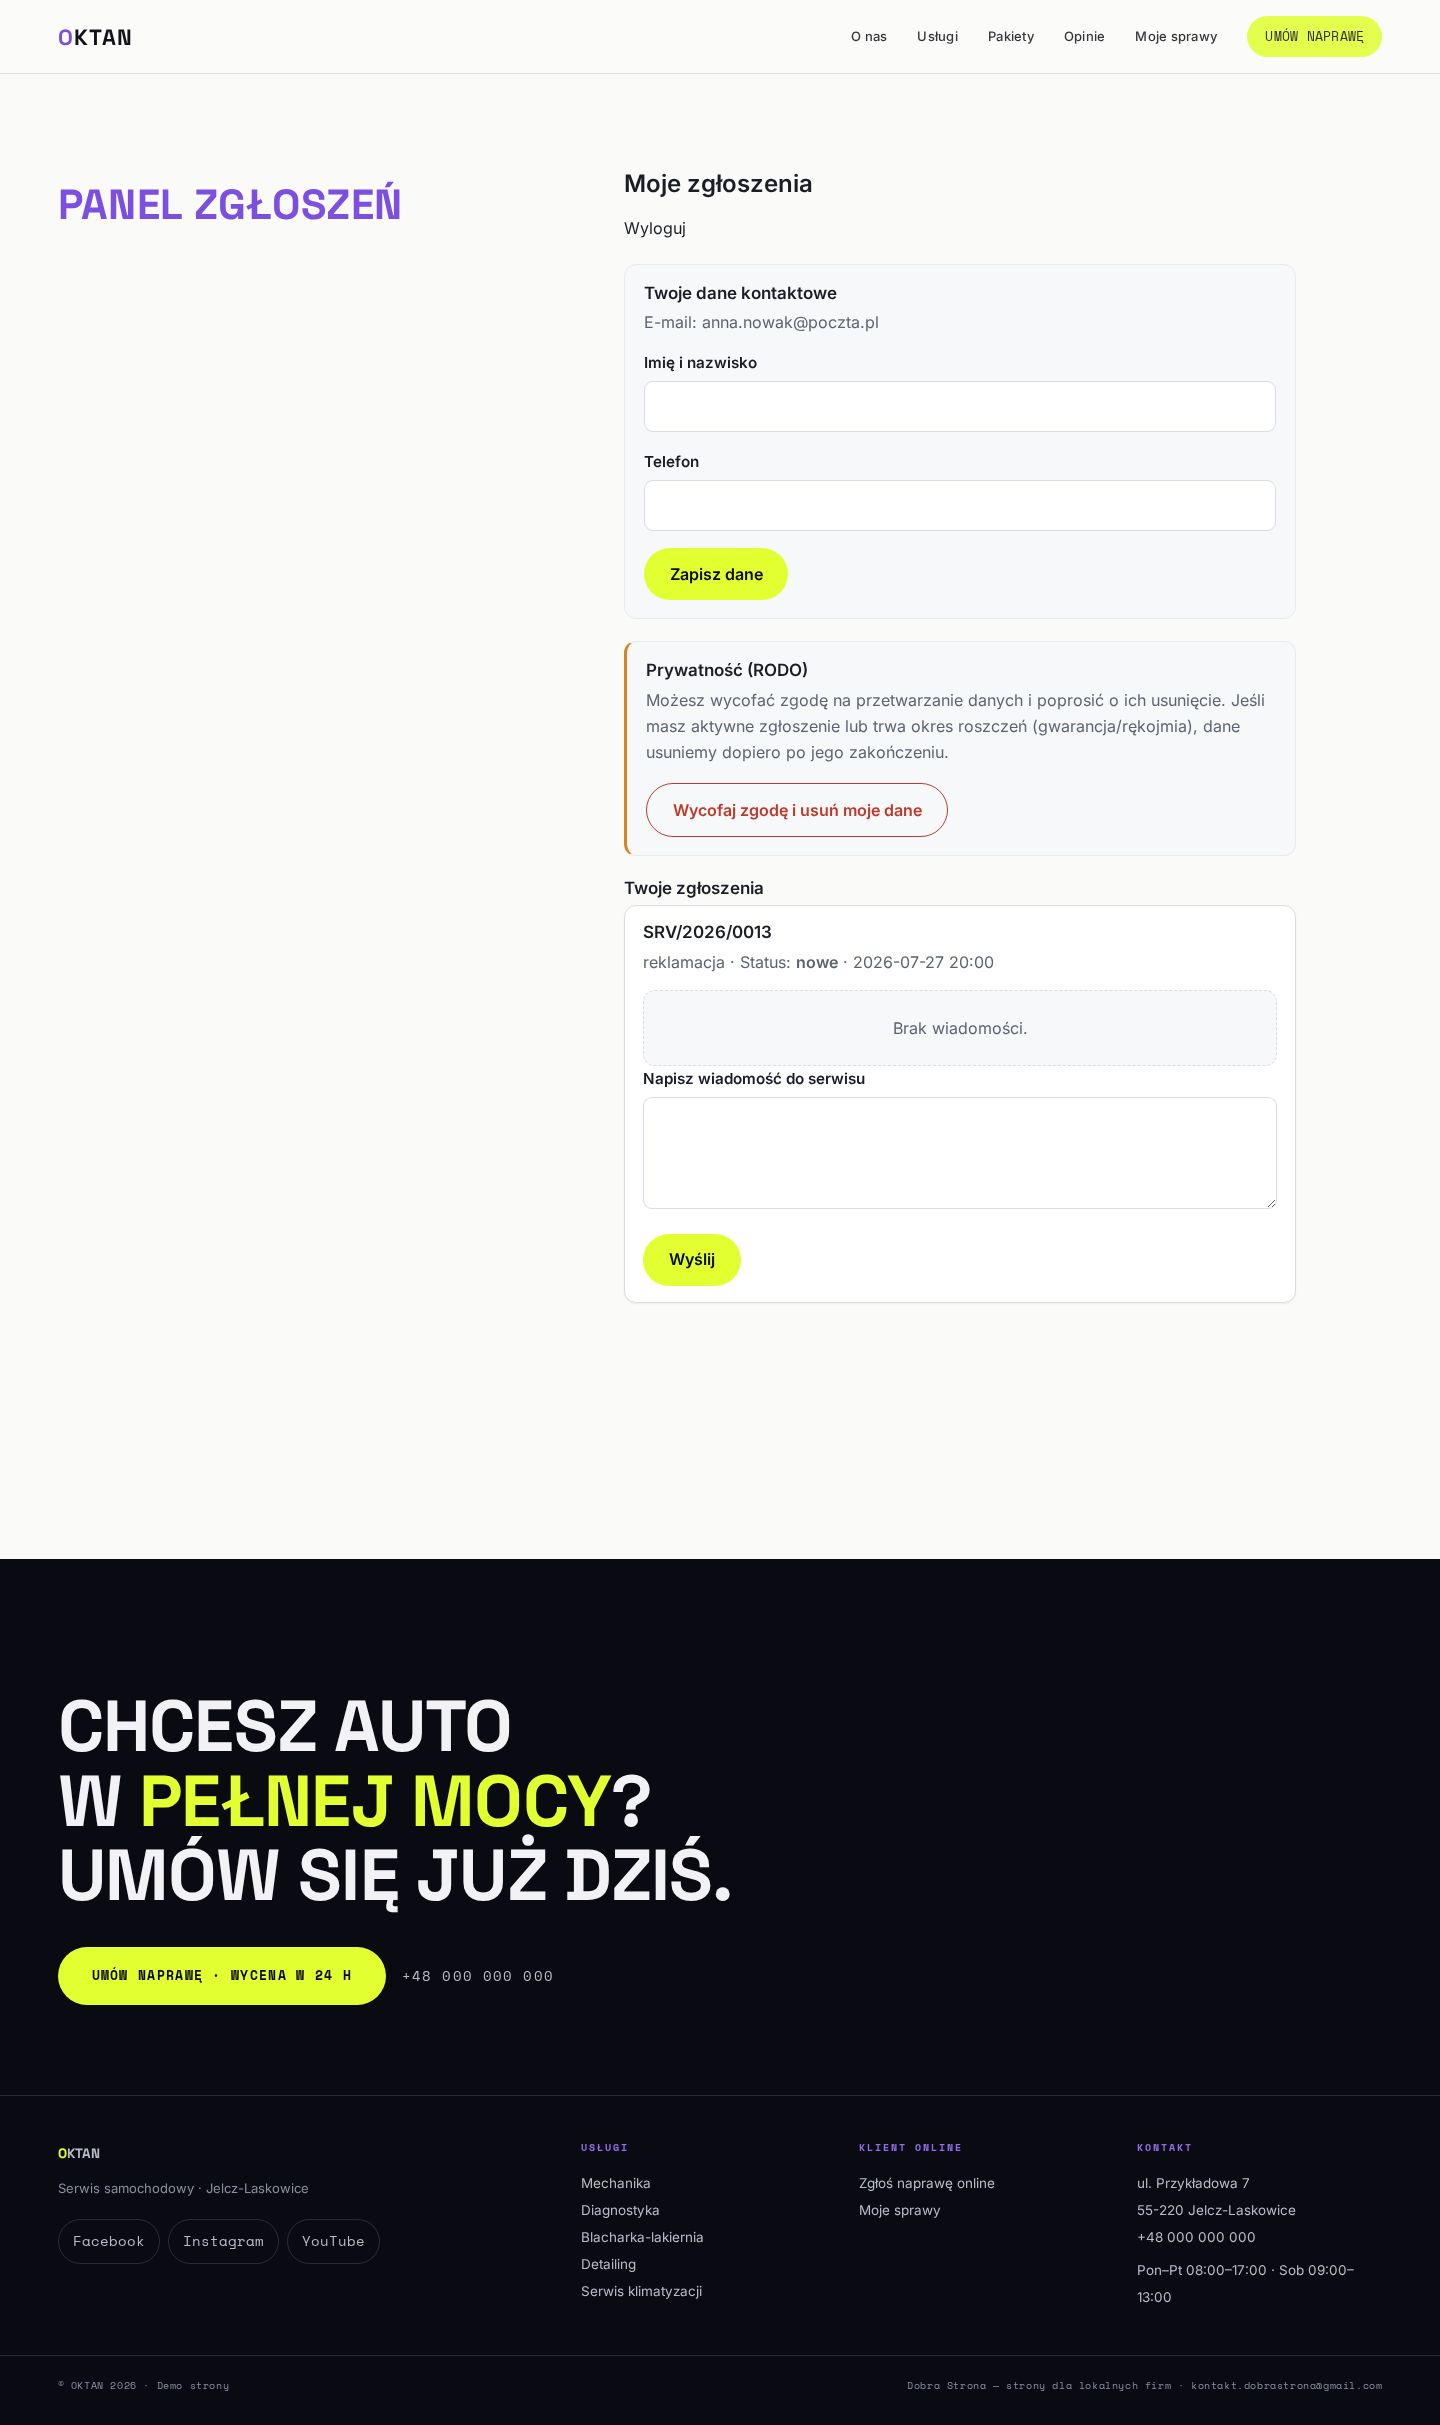
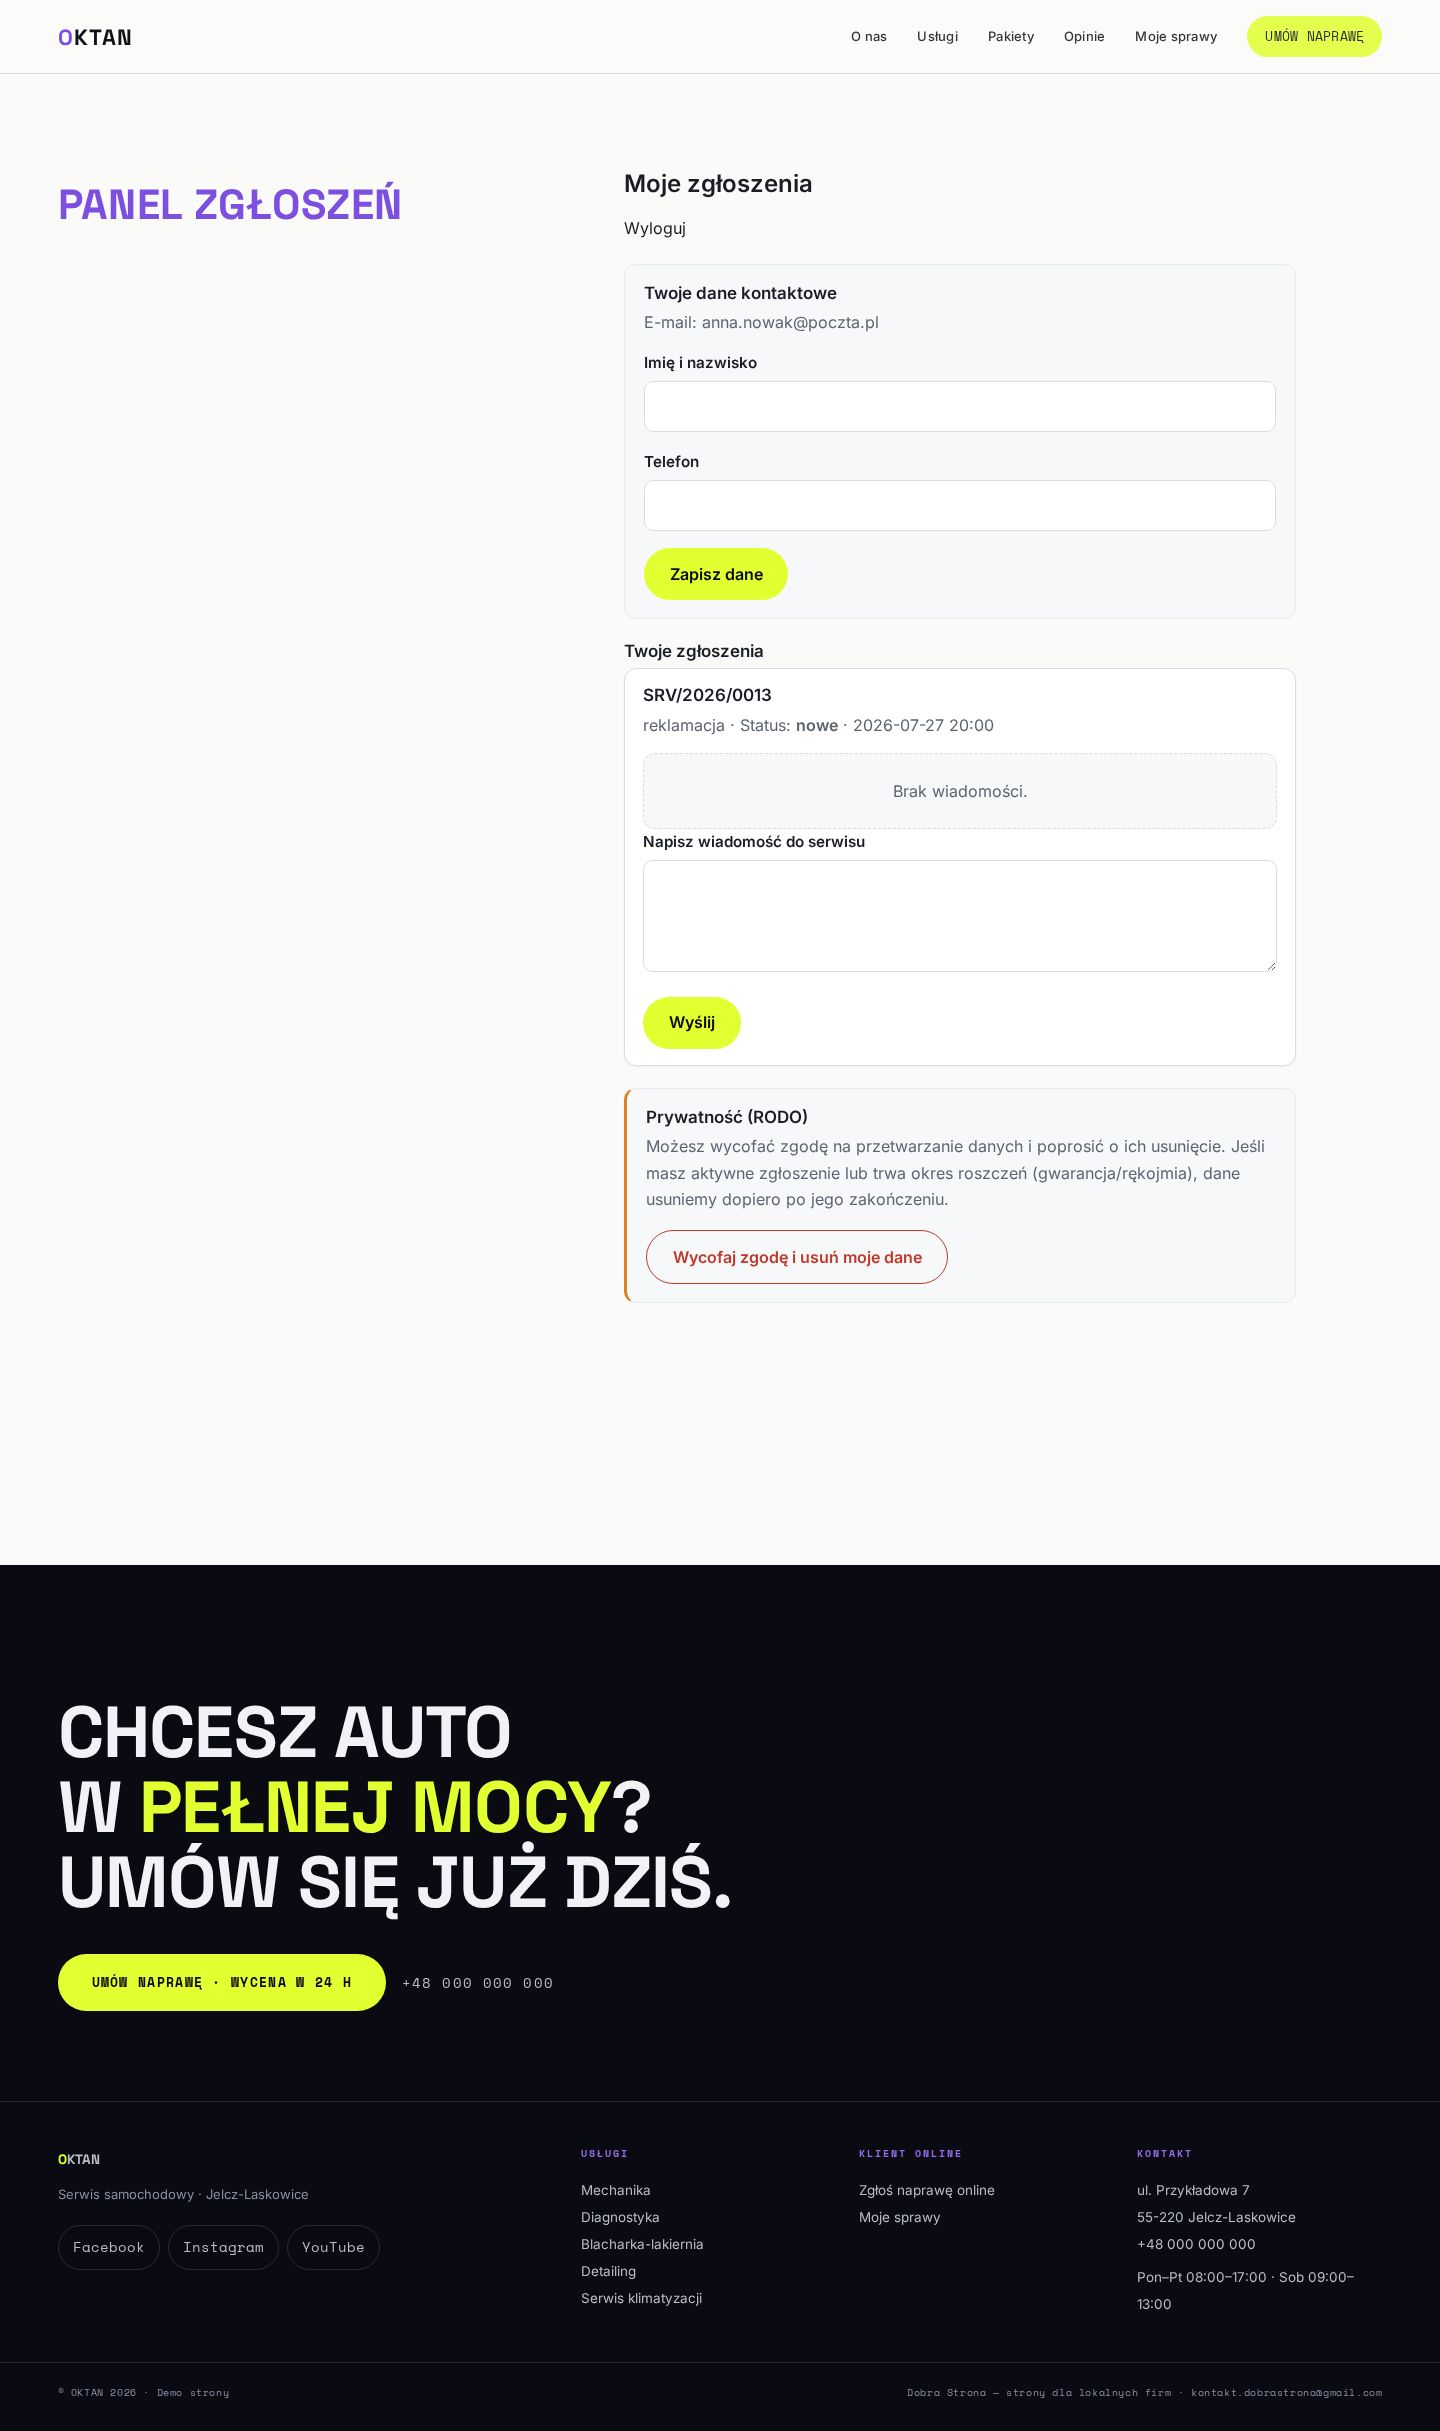
docs: dociagniecie dokumentacji do zmiany RODO (zrzuty + trzy opisy) (#137)
Zmiana z #136 (krok potwierdzenia + blok RODO pod lista spraw) uniewaznila
material, ktory pokazywal STARY uklad i STARE zachowanie. Sweep po temacie
"wycofanie zgody / usuniecie danych" znalazl piec miejsc:

- zrzuty 10, 11, 12 — panel mial blok RODO nad lista spraw; zrobione od nowa
  na demo podniesionym do biezacego kodu,
- NOWY zrzut 14 — ekran potwierdzenia usuniecia danych (nowy ekran w systemie,
  klient musi go zobaczyc w instrukcji, zanim go zobaczy na zywo),
- KLIENT.md — mowil "sekcja Prywatnosc" bez wskazania, gdzie jest, i nie znal
  kroku potwierdzenia; teraz mowi wprost: sekcja na dole, dwa klikniecia,
  jest "Anuluj",
- INSTRUKCJA-KLIENTA.md sekcja 8 (RODO) — dopisany krok potwierdzenia,
- SECURITY.md — opisany kontrakt dwustopniowy (wlasny nonce w kroku 2, token
  z kroku 1 nie wystarcza) + wskazany straznik c27.

Sprawdzone i NIEzmieniane: diagramy — dotykaja RODO tylko w modelu danych
(os zdarzen, tabele), nie opisuja przeplywu w panelu.

Samokontrola pakowania przeszla, wiec kazde zdjecie przywolane w instrukcjach
faktycznie jest w paczce.

diff --git a/dokumentacja-techniczna/SECURITY.md b/dokumentacja-techniczna/SECURITY.md
@@ -116,6 +116,12 @@ które ustawia własne nagłówki, może je tu przyciąć zamiast walczyć z dup
   dostaje **osobny rekord klienta**: jej zgłoszenie nie nadpisuje danych pierwszej osoby
   i nie dokleja się do jej historii. Ta sama osoba (różnice wielkości liter/spacji
   w nazwisku) trafia do swojego istniejącego rekordu.
+- **Usunięcie danych jest dwustopniowe**: `mp_intake_withdraw` niczego nie zmienia — przekierowuje
+  na ekran potwierdzenia (co zniknie / co zostaje / operacja nieodwracalna). Operację wykonuje
+  dopiero `mp_intake_withdraw_confirm`, z **własnym nonce**, więc token pierwszego kroku nie
+  wystarcza. Powód: przycisk sąsiadował z „Zapisz dane" i jedno pudło kciukiem kasowało dane
+  nieodwracalnie. Ten sam wzorzec, co przy potwierdzaniu zgłoszenia i logowaniu linkiem (GET nie
+  zmienia stanu). Strażnik: `testy/e2e/c27-rodo-potwierdzenie.sh`.
 - **Samoobsługa danych na koncie współdzielonym jest wyłączona**: gdy konto WP obsługuje
   więcej niż jeden rekord klienta, panel chowa formularze edycji danych i „Wycofaj zgodę
   i usuń moje dane", a POST-y odmawiają **po stronie serwera** (także ze starym, ważnym

diff --git a/dla-klienta/instrukcje/KLIENT.md b/dla-klienta/instrukcje/KLIENT.md
@@ -56,10 +56,17 @@ O każdej ważnej zmianie (przydział, zmiana statusu, decyzja) system powiadomi
 
 ## 4. Twoje dane (RODO)
 
-W panelu, w sekcji **Prywatność**, możesz poprawić dane kontaktowe, **wycofać zgodę** i poprosić
-o **usunięcie danych**:
+Dane kontaktowe poprawisz na górze panelu. Sekcja **Prywatność (RODO)** — wycofanie zgody
+i usunięcie danych — jest **na samym dole**, pod Twoimi zgłoszeniami:
 
 ![Dane i sekcja RODO w panelu](zdjecia/10-panel-klienta-dane-rodo.jpg)
+
+**Usunięcie danych wymaga dwóch kliknięć — przypadkiem tego nie zrobisz.** Po kliknięciu
+„Wycofaj zgodę i usuń moje dane" zobaczysz ekran, który mówi wprost, co zniknie, co zostanie
+i że tej operacji **nie da się cofnąć**. Dopiero przycisk na tym ekranie ją wykonuje, a obok
+jest „Anuluj":
+
+![Ekran potwierdzenia usunięcia danych](zdjecia/14-potwierdzenie-usuniecia-danych.jpg)
 
 - Jeśli masz **aktywną sprawę**, dane zostaną usunięte po jej zakończeniu (system to jasno powie).
 - Jeśli z jednego adresu e-mail korzysta **kilka osób** (np. sekretariat), samoobsługowe usuwanie

diff --git a/dla-klienta/INSTRUKCJA-KLIENTA.md b/dla-klienta/INSTRUKCJA-KLIENTA.md
@@ -158,6 +158,9 @@ ostatnio się wykonało — jeśli stoi ponad 10 minut, zaświeci na czerwono z 
 ## 8. RODO (dane osobowe)
 
 - Zgody klienta są zapisywane z treścią i wersją; klient może **wycofać zgodę** i **poprosić o usunięcie danych** z panelu.
+- Usunięcie danych wymaga **dwóch kliknięć**: pierwsze pokazuje ekran z informacją, co zniknie, co
+  zostaje i że operacji nie da się cofnąć — dopiero przycisk na tym ekranie ją wykonuje. Dzięki temu
+  klient nie skasuje sobie danych przypadkiem (np. pudłem kciukiem na telefonie).
 - **Wyjątek — wspólny adres e-mail** (np. sekretariat zgłaszający za kilka osób): system prowadzi
   wtedy **osobne kartoteki** dla każdej osoby, a samodzielna edycja i usuwanie danych z panelu są
   wyłączone — wniosek składa się wiadomością w sprawie i rozpatruje go pracownik (żeby jedna osoba
